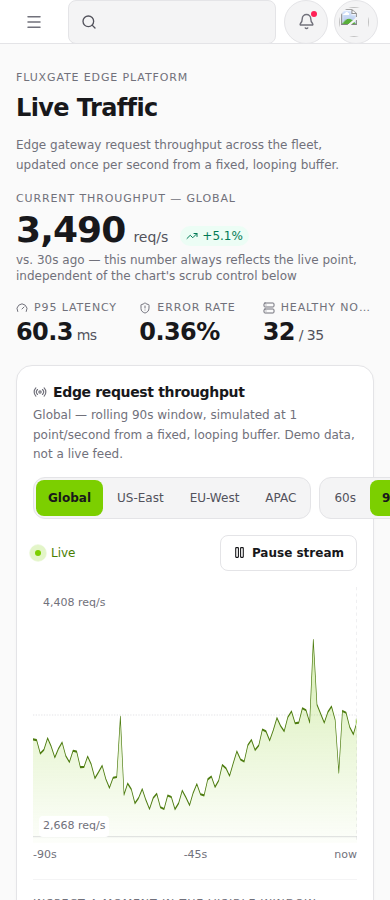
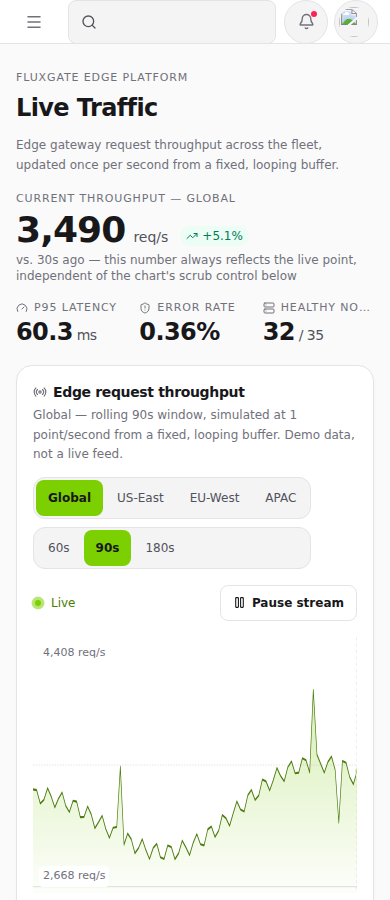
feat(dash-evolve): auto-dash-r35 — b (Fluxgate Live Traffic) wins 2:1, post-judgment fixes applied
Lens1 (brief compliance) and lens3 (differentiation) both ranked b first;
lens2 (commercial polish) ranked a first. Clean 2:1 majority, no tie-break
needed.

Lens3's key finding: candidate a (OHLC candlestick, feed-centric) is
actually the THIRD independent candlestick-dashboard attempt in this
catalog's full generation history (after r20/b "Fathom" and r29/a
"Lotwise" -- neither promoted, both lost their rounds), a prior-art gap
even the orchestrator's corrected GENERATE-phase briefing undercounted.
Candidate b's real-time streaming-area chart has only one minor prior
(a small side-panel sparkline in a promoted work, not a dominant
visualization) and its pause/resume + rolling-window + scrubber behavior
is genuinely new.

Per S3-1, applied narrow fixes to winner b for the rule violations lens1
(the compliance lens) found and cited with evidence -- not lens2's taste/
completeness critiques (leaked disclaimer copy, a dead "Export" button,
a node-count mismatch), which are out of scope for post-judgment fixes
and left for a future round:
- 390px window-length segmented control was clipped off-screen (root
  overflow-x-hidden masked it from the sweep gate) -- now stacks onto
  its own row below `sm`.
- Command palette's region entries didn't actually switch the chart's
  region on click/Enter -- wired to the real onRegionChange handler,
  plus added the missing Enter-to-commit keyboard handler.
- Notifications popover used role="menu" over a read-only list (ARIA
[…]

diff --git a/app/src/app/dash-evolve/r35/b/command-palette.tsx b/app/src/app/dash-evolve/r35/b/command-palette.tsx
@@ -2,7 +2,7 @@
 
 import { Search, X } from "lucide-react";
 import { useEffect, useMemo, useRef, useState } from "react";
-import { SEARCH_ENTRIES } from "./data";
+import { SEARCH_ENTRIES, type RegionId } from "./data";
 import { BORDER, FOCUS, HOVER_BG, PANEL_BG, TEXT_AUX, TEXT_PRIMARY, TRANSITION, cx } from "./tokens";
 import { Eyebrow } from "./ui";
 
@@ -12,7 +12,14 @@ import { Eyebrow } from "./ui";
  * resets state in response to an `open` prop, which is the exact pattern that tripped the
  * `react-hooks/set-state-in-effect` hard-gate in earlier rounds of this catalog.
  */
-export default function CommandPalette({ onClose }: { onClose: () => void }) {
+const REGION_ENTRY_TO_ID: Record<string, RegionId> = {
+  "region-global": "global",
+  "region-us-east": "us-east",
+  "region-eu-west": "eu-west",
+  "region-apac": "apac",
+};
+
+export default function CommandPalette({ onClose, onRegionChange }: { onClose: () => void; onRegionChange: (id: RegionId) => void }) {
   const [query, setQuery] = useState("");
   const [activeIndex, setActiveIndex] = useState(0);
   const inputRef = useRef<HTMLInputElement>(null);
@@ -49,6 +56,13 @@ export default function CommandPalette({ onClose }: { onClose: () => void }) {
               } else if (e.key === "ArrowUp") {
                 e.preventDefault();
                 setActiveIndex((i) => Math.max(i - 1, 0));
+              } else if (e.key === "Enter") {
+                e.preventDefault();
+                const entry = results[clampedIndex];
+                if (!entry) return;
+                const regionId = REGION_ENTRY_TO_ID[entry.id];
+                if (regionId) onRegionChange(regionId);
+                onClose();
               }
             }}
             type="text"
@@ -58,7 +72,7 @@ export default function CommandPalette({ onClose }: { onClose: () => void }) {
             aria-expanded="true"
             aria-controls="fluxgate-palette-results"
             aria-activedescendant={results[clampedIndex] ? `palette-opt-${results[clampedIndex].id}` : undefined}
-            className={cx("h-9 min-w-0 flex-1 rounded-md bg-transparent px-1 text-sm font-normal", TEXT_PRIMARY, "placeholder:text-zinc-400", FOCUS)}
+            className={cx("h-9 min-w-0 flex-1 rounded-md bg-transparent px-1 text-sm font-normal", TEXT_PRIMARY, "placeholder:text-zinc-500", FOCUS)}
           />
           <button type="button" onClick={onClose} className={cx("grid h-9 w-9 shrink-0 place-items-center rounded-lg text-sm font-medium", HOVER_BG, TRANSITION, FOCUS)}>
             <X size={15} aria-hidden="true" className={TEXT_AUX} />
@@ -66,37 +80,40 @@ export default function CommandPalette({ onClose }: { onClose: () => void }) {
           </button>
         </div>
 
+        {results.length > 0 ? (
+          <div className="px-2.5 pt-2">
+            <Eyebrow>Jump to</Eyebrow>
+          </div>
+        ) : null}
         <div id="fluxgate-palette-results" role="listbox" aria-label="Search results" className="max-h-[60vh] overflow-y-auto p-2 [scrollbar-width:thin]">
           {results.length === 0 ? <p className={cx("px-2.5 py-6 text-center text-sm font-normal", TEXT_AUX)}>No matches for that search.</p> : null}
-          {results.length > 0 ? (
-            <div>
-              <div className="px-2.5 py-1">
-                <Eyebrow>Jump to</Eyebrow>
-              </div>
-              {results.map((e, i) => {
-                const active = i === clampedIndex;
-                return (
-                  <button
-                    key={e.id}
-                    id={`palette-opt-${e.id}`}
-                    type="button"
-                    role="option"
-                    aria-selected={active}
-                    tabIndex={-1}
-                    onMouseEnter={() => setActiveIndex(i)}
-                    onClick={onClose}
-                    className={cx("flex w-full items-center gap-2.5 rounded-lg px-2.5 py-2 text-left text-sm font-medium", TEXT_PRIMARY, TRANSITION, active ? "bg-lime-50" : HOVER_BG)}
-                  >
-                    <e.Icon size={15} aria-hidden="true" className={cx("shrink-0", TEXT_AUX)} />
-                    <span className="min-w-0 flex-1 truncate">
-                      <span className="text-[13px]">{e.title}</span>
-                      <span className={cx("ml-2 text-[11px] font-normal", TEXT_AUX)}>{e.meta}</span>
-                    </span>
-                  </button>
-                );
-              })}
-            </div>
-          ) : null}
+          {results.map((e, i) => {
+            const active = i === clampedIndex;
+            const regionId = REGION_ENTRY_TO_ID[e.id];
+            function commit() {
+              if (regionId) onRegionChange(regionId);
+              onClose();
+            }
+            return (
+              <button
+                key={e.id}
+                id={`palette-opt-${e.id}`}
+                type="button"
+                role="option"
+                aria-selected={active}
+                tabIndex={-1}
+                onMouseEnter={() => setActiveIndex(i)}
+                onClick={commit}
+                className={cx("flex w-full items-center gap-2.5 rounded-lg px-2.5 py-2 text-left text-sm font-medium", TEXT_PRIMARY, TRANSITION, active ? "bg-lime-50" : HOVER_BG)}
+              >
+                <e.Icon size={15} aria-hidden="true" className={cx("shrink-0", TEXT_AUX)} />
+                <span className="min-w-0 flex-1 truncate">
+                  <span className="text-[13px]">{e.title}</span>
+                  <span className={cx("ml-2 text-[11px] font-normal", TEXT_AUX)}>{regionId ? "Region — switches the chart" : e.meta}</span>
+                </span>
+              </button>
+            );
+          })}
         </div>
       </div>
     </div>

diff --git a/app/src/app/dash-evolve/r35/b/streaming-chart.tsx b/app/src/app/dash-evolve/r35/b/streaming-chart.tsx
@@ -80,7 +80,12 @@ export default function StreamingChart({
         Icon={Radio}
         hint={`${regionLabel(region)} — rolling ${windowSeconds}s window, simulated at 1 point/second from a fixed, looping buffer. Demo data, not a live feed.`}
         action={
-          <div className="flex flex-wrap items-center justify-end gap-2">
+          // Each Segmented is one atomic inline-flex pill group that never wraps inside
+          // itself, so relying on the row's own `flex-wrap` to break between the two groups
+          // left "90s"/"180s" clipped at 390px (the row never found a width where wrapping
+          // kicked in before the page's `overflow-x-hidden` quietly hid the overflow instead
+          // of reflowing it). Stacking unconditionally below `sm` removes that ambiguity.
+          <div className="flex flex-col items-stretch gap-2 sm:flex-row sm:flex-wrap sm:items-center sm:justify-end">
             <Segmented ariaLabel="Region" options={REGIONS.map((r) => ({ id: r.id, label: r.label }))} value={region} onChange={onRegionChange} />
             <Segmented ariaLabel="Window length" options={WINDOW_OPTIONS} value={windowSeconds} onChange={onWindowSecondsChange} />
           </div>
@@ -102,7 +107,11 @@ export default function StreamingChart({
           type="button"
           onClick={onTogglePlaying}
           disabled={prefersReducedMotion}
-          aria-pressed={effectivePlaying}
+          // No `aria-pressed` here on purpose: this label is already the imperative "what
+          // pressing this button does next" convention ("Pause stream" / "Resume stream",
+          // the same one native <video> controls use), not the "fixed name + on/off state"
+          // convention `aria-pressed` is for. Carrying both makes a screen reader announce
+          // the state twice, in two different and sometimes-contradictory ways.
           className={cx(
             "flex h-9 items-center gap-1.5 rounded-lg border px-3 text-xs font-semibold",
             BORDER,

diff --git a/app/src/app/dash-evolve/r35/b/topbar.tsx b/app/src/app/dash-evolve/r35/b/topbar.tsx
@@ -61,7 +61,10 @@ export default function Topbar({ onOpenPalette, onOpenMobileNav }: { onOpenPalet
             <span className="sr-only">{`Notifications, ${NOTIFICATIONS.length} unread`}</span>
           </button>
           {notifOpen ? (
-            <div role="menu" aria-label="Notifications" className={cx("absolute right-0 top-full z-40 mt-2 w-80 max-w-[calc(100vw-1.5rem)] rounded-xl border", BORDER, PANEL_BG, "shadow-xl shadow-zinc-900/10")}>
+            // Read-only notifications (no actionable items), so this is a labelled region,
+            // not a `menu` — `role="menu"` requires every child to be a `menuitem`-family
+            // role, which a plain notification list of static text never satisfies.
+            <div role="region" aria-label="Notifications" className={cx("absolute right-0 top-full z-40 mt-2 w-80 max-w-[calc(100vw-1.5rem)] rounded-xl border", BORDER, PANEL_BG, "shadow-xl shadow-zinc-900/10")}>
               <div className={cx("border-b px-4 py-3", BORDER)}>
                 <p className={cx("text-sm font-semibold", TEXT_PRIMARY)}>Notifications</p>
               </div>

diff --git a/app/src/app/dash-evolve/r35/b/fluxgate-client.tsx b/app/src/app/dash-evolve/r35/b/fluxgate-client.tsx
@@ -128,7 +128,7 @@ export default function FluxgateClient() {
         </main>
       </div>
 
-      {paletteOpen ? <CommandPalette onClose={() => setPaletteOpen(false)} /> : null}
+      {paletteOpen ? <CommandPalette onClose={() => setPaletteOpen(false)} onRegionChange={setRegion} /> : null}
     </div>
   );
 }
